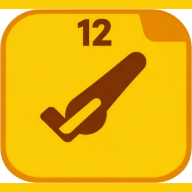
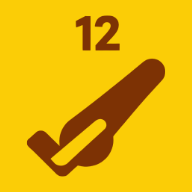
アイコンを端まで埋めた（白の余白ゼロ）— 司さんの指示
前は 元絵の枠ごと縮めて置いていたので ★図柄が小さく★見えていた。
・図柄（12 とチェック）だけを切り出し、★端まで面の黄 #FBCD06★ で埋めた
・元絵を「面の黄」と「図柄の茶 #7D3204」の2色に直してから切り出す
  → ★右上の折り返しの橙が破片で写り込む★のを消した（境目はなめらかに混ぜる＝ギザギザ無し）
・maskable は 60%（Androidの安全な内側に収める）

★検査を足した★: tests/home-icon.test.mjs が PNGの画素を実際に読んで
  ★5枚 × 四隅 = 20点すべてが面の色（白 0点）★ を毎回 数える。

node tests/run.js → 全部 緑（32本）

Claude-Session: https://claude.ai/code/session_01XubSutqQm3uxgvTByL8qyQ

diff --git a/index.html b/index.html
@@ -4,24 +4,24 @@
     <meta charset="utf-8" />
     <meta name="viewport" content="width=device-width,initial-scale=1,viewport-fit=cover" />
     <title>Timeally — 一覧</title>
-    <link rel="icon" href="icons/favicon-32.png?v=34956ad6" sizes="32x32" />
-    <link rel="apple-touch-icon" href="icons/apple-touch-icon.png?v=34956ad6" />
+    <link rel="icon" href="icons/favicon-32.png?v=93219b22" sizes="32x32" />
+    <link rel="apple-touch-icon" href="icons/apple-touch-icon.png?v=93219b22" />
     <meta name="apple-mobile-web-app-capable" content="yes" />
     <meta name="apple-mobile-web-app-status-bar-style" content="default" />
     <meta name="apple-mobile-web-app-title" content="Timeally" />
     <meta name="theme-color" content="#FFC72C" />
-    <link rel="manifest" href="manifest.json?v=34956ad6" />
+    <link rel="manifest" href="manifest.json?v=93219b22" />
     <link rel="preconnect" href="https://fonts.googleapis.com" />
     <link rel="preconnect" href="https://fonts.gstatic.com" crossorigin />
     <link href="https://fonts.googleapis.com/css2?family=DM+Mono:wght@400;500&family=Noto+Sans+JP:wght@400;700&display=swap" rel="stylesheet" />
-    <link rel="stylesheet" href="css/timeally.css?v=34956ad6" />
+    <link rel="stylesheet" href="css/timeally.css?v=93219b22" />
   </head>
   <body>
     <div class="tc-appbar">
       <h1>Timeally</h1>
       <span class="tc-sub" id="coname"></span>
       <span class="tc-spacer"></span>
-      <a class="tc-btn sub" href="shukei.html?v=34956ad6">集計・印刷</a>
+      <a class="tc-btn sub" href="shukei.html?v=93219b22">集計・印刷</a>
     </div>
 
     <div class="tc-wrap" id="main" hidden>
@@ -108,17 +108,17 @@
       </section>
     </div>
     <script src="https://cdn.jsdelivr.net/npm/@supabase/supabase-js@2"></script>
-    <script src="js/supa-config.js?v=34956ad6"></script>
-    <script src="js/env-badge.js?v=34956ad6"></script>
-    <script src="lib/tc-law.js?v=34956ad6"></script>
-    <script src="lib/tc-calc.js?v=34956ad6"></script>
-    <script src="lib/tc-csv.js?v=34956ad6"></script>
-    <script src="lib/tc-name.js?v=34956ad6"></script>
-    <script src="lib/qr.js?v=34956ad6"></script>
-    <script src="js/file-out.js?v=34956ad6"></script>
-    <script src="js/tc-ui.js?v=34956ad6"></script>
-    <script src="js/tc-db.js?v=34956ad6"></script>
-    <script src="js/owner-app.js?v=34956ad6"></script>
+    <script src="js/supa-config.js?v=93219b22"></script>
+    <script src="js/env-badge.js?v=93219b22"></script>
+    <script src="lib/tc-law.js?v=93219b22"></script>
+    <script src="lib/tc-calc.js?v=93219b22"></script>
+    <script src="lib/tc-csv.js?v=93219b22"></script>
+    <script src="lib/tc-name.js?v=93219b22"></script>
+    <script src="lib/qr.js?v=93219b22"></script>
+    <script src="js/file-out.js?v=93219b22"></script>
+    <script src="js/tc-ui.js?v=93219b22"></script>
+    <script src="js/tc-db.js?v=93219b22"></script>
+    <script src="js/owner-app.js?v=93219b22"></script>
     <script>
       OwnerApp.startIndex();
     </script>

diff --git a/shukei.html b/shukei.html
@@ -4,24 +4,24 @@
     <meta charset="utf-8" />
     <meta name="viewport" content="width=device-width,initial-scale=1,viewport-fit=cover" />
     <title>Timeally — 集計・印刷</title>
-    <link rel="icon" href="icons/favicon-32.png?v=34956ad6" sizes="32x32" />
-    <link rel="apple-touch-icon" href="icons/apple-touch-icon.png?v=34956ad6" />
+    <link rel="icon" href="icons/favicon-32.png?v=93219b22" sizes="32x32" />
+    <link rel="apple-touch-icon" href="icons/apple-touch-icon.png?v=93219b22" />
     <meta name="apple-mobile-web-app-capable" content="yes" />
     <meta name="apple-mobile-web-app-status-bar-style" content="default" />
     <meta name="apple-mobile-web-app-title" content="Timeally" />
     <meta name="theme-color" content="#FFC72C" />
-    <link rel="manifest" href="manifest.json?v=34956ad6" />
+    <link rel="manifest" href="manifest.json?v=93219b22" />
     <link rel="preconnect" href="https://fonts.googleapis.com" />
     <link rel="preconnect" href="https://fonts.gstatic.com" crossorigin />
     <link href="https://fonts.googleapis.com/css2?family=DM+Mono:wght@400;500&family=Noto+Sans+JP:wght@400;700&display=swap" rel="stylesheet" />
-    <link rel="stylesheet" href="css/timeally.css?v=34956ad6" />
+    <link rel="stylesheet" href="css/timeally.css?v=93219b22" />
   </head>
   <body>
     <div class="tc-appbar">
       <h1>Timeally</h1>
       <span class="tc-sub">集計・印刷</span>
       <span class="tc-spacer"></span>
-      <a class="tc-btn sub" href="index.html?v=34956ad6">一覧へ</a>
+      <a class="tc-btn sub" href="index.html?v=93219b22">一覧へ</a>
     </div>
 
     <div class="tc-wrap" id="main" hidden>
@@ -54,16 +54,16 @@
       </div>
     </div>
     <script src="https://cdn.jsdelivr.net/npm/@supabase/supabase-js@2"></script>
-    <script src="js/supa-config.js?v=34956ad6"></script>
-    <script src="js/env-badge.js?v=34956ad6"></script>
-    <script src="lib/tc-law.js?v=34956ad6"></script>
-    <script src="lib/tc-calc.js?v=34956ad6"></script>
-    <script src="lib/tc-csv.js?v=34956ad6"></script>
-    <script src="lib/tc-name.js?v=34956ad6"></script>
-    <script src="js/file-out.js?v=34956ad6"></script>
-    <script src="js/tc-ui.js?v=34956ad6"></script>
-    <script src="js/tc-db.js?v=34956ad6"></script>
-    <script src="js/owner-app.js?v=34956ad6"></script>
+    <script src="js/supa-config.js?v=93219b22"></script>
+    <script src="js/env-badge.js?v=93219b22"></script>
+    <script src="lib/tc-law.js?v=93219b22"></script>
+    <script src="lib/tc-calc.js?v=93219b22"></script>
+    <script src="lib/tc-csv.js?v=93219b22"></script>
+    <script src="lib/tc-name.js?v=93219b22"></script>
+    <script src="js/file-out.js?v=93219b22"></script>
+    <script src="js/tc-ui.js?v=93219b22"></script>
+    <script src="js/tc-db.js?v=93219b22"></script>
+    <script src="js/owner-app.js?v=93219b22"></script>
     <script>
       OwnerApp.startShukei();
     </script>

diff --git a/login.html b/login.html
@@ -4,17 +4,17 @@
     <meta charset="utf-8" />
     <meta name="viewport" content="width=device-width,initial-scale=1,viewport-fit=cover" />
     <title>Timeally — 会社の入口</title>
-    <link rel="icon" href="icons/favicon-32.png?v=34956ad6" sizes="32x32" />
-    <link rel="apple-touch-icon" href="icons/apple-touch-icon.png?v=34956ad6" />
+    <link rel="icon" href="icons/favicon-32.png?v=93219b22" sizes="32x32" />
+    <link rel="apple-touch-icon" href="icons/apple-touch-icon.png?v=93219b22" />
     <meta name="apple-mobile-web-app-capable" content="yes" />
     <meta name="apple-mobile-web-app-status-bar-style" content="default" />
     <meta name="apple-mobile-web-app-title" content="Timeally" />
     <meta name="theme-color" content="#FFC72C" />
-    <link rel="manifest" href="manifest.json?v=34956ad6" />
+    <link rel="manifest" href="manifest.json?v=93219b22" />
     <link rel="preconnect" href="https://fonts.googleapis.com" />
     <link rel="preconnect" href="https://fonts.gstatic.com" crossorigin />
     <link href="https://fonts.googleapis.com/css2?family=DM+Mono:wght@400;500&family=Noto+Sans+JP:wght@400;700&display=swap" rel="stylesheet" />
-    <link rel="stylesheet" href="css/timeally.css?v=34956ad6" />
+    <link rel="stylesheet" href="css/timeally.css?v=93219b22" />
   </head>
   <body>
     <div class="tc-appbar">
@@ -43,11 +43,11 @@
     </div>
 
     <script src="https://cdn.jsdelivr.net/npm/@supabase/supabase-js@2"></script>
-    <script src="js/supa-config.js?v=34956ad6"></script>
-    <script src="js/env-badge.js?v=34956ad6"></script>
-    <script src="js/tc-ui.js?v=34956ad6"></script>
-    <script src="js/tc-db.js?v=34956ad6"></script>
-    <script src="js/owner-app.js?v=34956ad6"></script>
+    <script src="js/supa-config.js?v=93219b22"></script>
+    <script src="js/env-badge.js?v=93219b22"></script>
+    <script src="js/tc-ui.js?v=93219b22"></script>
+    <script src="js/tc-db.js?v=93219b22"></script>
+    <script src="js/owner-app.js?v=93219b22"></script>
     <script>
       OwnerApp.startLogin();
     </script>

diff --git a/kiroku.html b/kiroku.html
@@ -5,8 +5,8 @@
     <meta name="viewport" content="width=device-width,initial-scale=1,viewport-fit=cover" />
     <meta name="format-detection" content="telephone=no" />
     <title>Timeally — 自分の記録</title>
-    <link rel="icon" href="icons/favicon-32.png?v=34956ad6" sizes="32x32" />
-    <link rel="apple-touch-icon" href="icons/apple-touch-icon.png?v=34956ad6" />
+    <link rel="icon" href="icons/favicon-32.png?v=93219b22" sizes="32x32" />
+    <link rel="apple-touch-icon" href="icons/apple-touch-icon.png?v=93219b22" />
     <meta name="apple-mobile-web-app-capable" content="yes" />
     <meta name="apple-mobile-web-app-status-bar-style" content="default" />
     <meta name="apple-mobile-web-app-title" content="Timeally" />
@@ -14,7 +14,7 @@
     <link rel="preconnect" href="https://fonts.googleapis.com" />
     <link rel="preconnect" href="https://fonts.gstatic.com" crossorigin />
     <link href="https://fonts.googleapis.com/css2?family=DM+Mono:wght@400;500&family=Noto+Sans+JP:wght@400;700&display=swap" rel="stylesheet" />
-    <link rel="stylesheet" href="css/timeally.css?v=34956ad6" />
+    <link rel="stylesheet" href="css/timeally.css?v=93219b22" />
   </head>
   <body>
     <div class="tc-appbar">
@@ -71,11 +71,11 @@
     </div>
 
     <script src="https://cdn.jsdelivr.net/npm/@supabase/supabase-js@2"></script>
-    <script src="js/supa-config.js?v=34956ad6"></script>
-    <script src="js/env-badge.js?v=34956ad6"></script>
-    <script src="js/tc-ui.js?v=34956ad6"></script>
-    <script src="js/tc-db.js?v=34956ad6"></script>
-    <script src="js/emp-app.js?v=34956ad6"></script>
+    <script src="js/supa-config.js?v=93219b22"></script>
+    <script src="js/env-badge.js?v=93219b22"></script>
+    <script src="js/tc-ui.js?v=93219b22"></script>
+    <script src="js/tc-db.js?v=93219b22"></script>
+    <script src="js/emp-app.js?v=93219b22"></script>
     <script>
       EmpApp.startKiroku();
     </script>

diff --git a/punch.html b/punch.html
@@ -5,8 +5,8 @@
     <meta name="viewport" content="width=device-width,initial-scale=1,viewport-fit=cover" />
     <meta name="format-detection" content="telephone=no" />
     <title>Timeally — 打刻</title>
-    <link rel="icon" href="icons/favicon-32.png?v=34956ad6" sizes="32x32" />
-    <link rel="apple-touch-icon" href="icons/apple-touch-icon.png?v=34956ad6" />
+    <link rel="icon" href="icons/favicon-32.png?v=93219b22" sizes="32x32" />
+    <link rel="apple-touch-icon" href="icons/apple-touch-icon.png?v=93219b22" />
     <meta name="apple-mobile-web-app-capable" content="yes" />
     <meta name="apple-mobile-web-app-status-bar-style" content="default" />
     <meta name="apple-mobile-web-app-title" content="Timeally" />
@@ -14,7 +14,7 @@
     <link rel="preconnect" href="https://fonts.googleapis.com" />
     <link rel="preconnect" href="https://fonts.gstatic.com" crossorigin />
     <link href="https://fonts.googleapis.com/css2?family=DM+Mono:wght@400;500&family=Noto+Sans+JP:wght@400;700&display=swap" rel="stylesheet" />
-    <link rel="stylesheet" href="css/timeally.css?v=34956ad6" />
+    <link rel="stylesheet" href="css/timeally.css?v=93219b22" />
   </head>
   <body>
     <div class="tc-appbar">
@@ -72,11 +72,11 @@
     </div>
 
     <script src="https://cdn.jsdelivr.net/npm/@supabase/supabase-js@2"></script>
-    <script src="js/supa-config.js?v=34956ad6"></script>
-    <script src="js/env-badge.js?v=34956ad6"></script>
-    <script src="js/tc-ui.js?v=34956ad6"></script>
-    <script src="js/tc-db.js?v=34956ad6"></script>
-    <script src="js/emp-app.js?v=34956ad6"></script>
+    <script src="js/supa-config.js?v=93219b22"></script>
+    <script src="js/env-badge.js?v=93219b22"></script>
+    <script src="js/tc-ui.js?v=93219b22"></script>
+    <script src="js/tc-db.js?v=93219b22"></script>
+    <script src="js/emp-app.js?v=93219b22"></script>
     <script>
       EmpApp.startPunch();
     </script>
